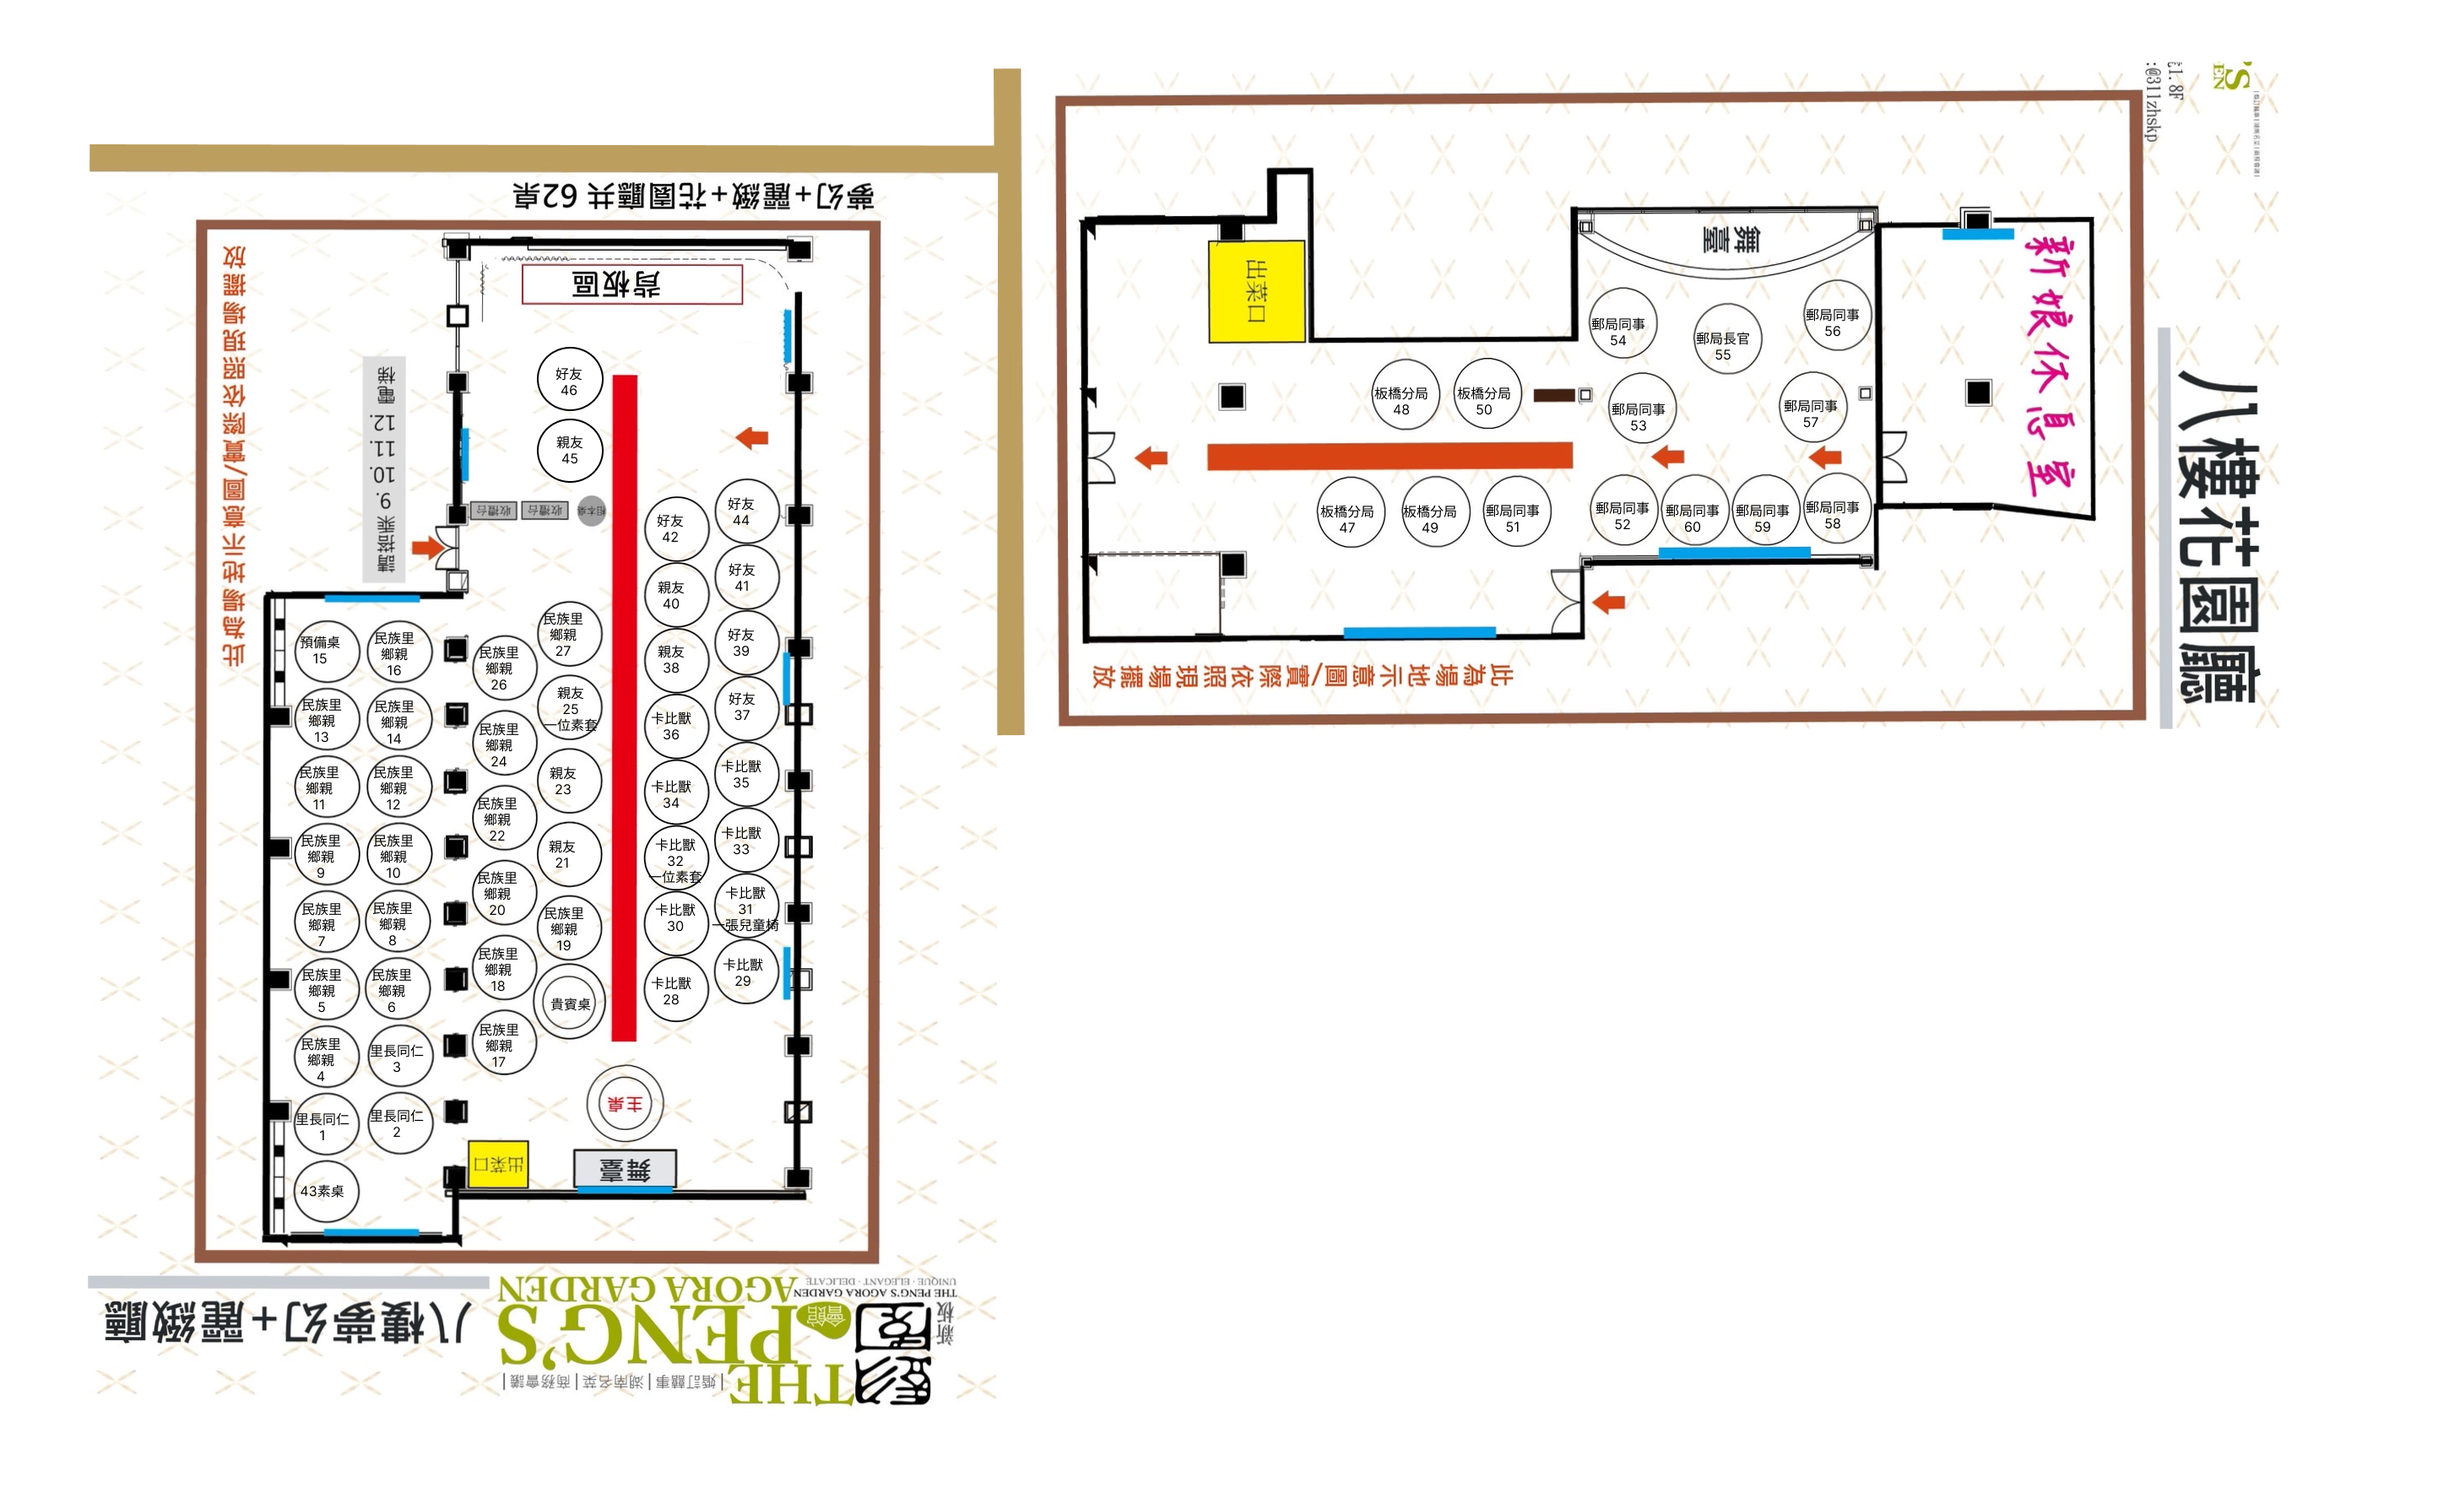
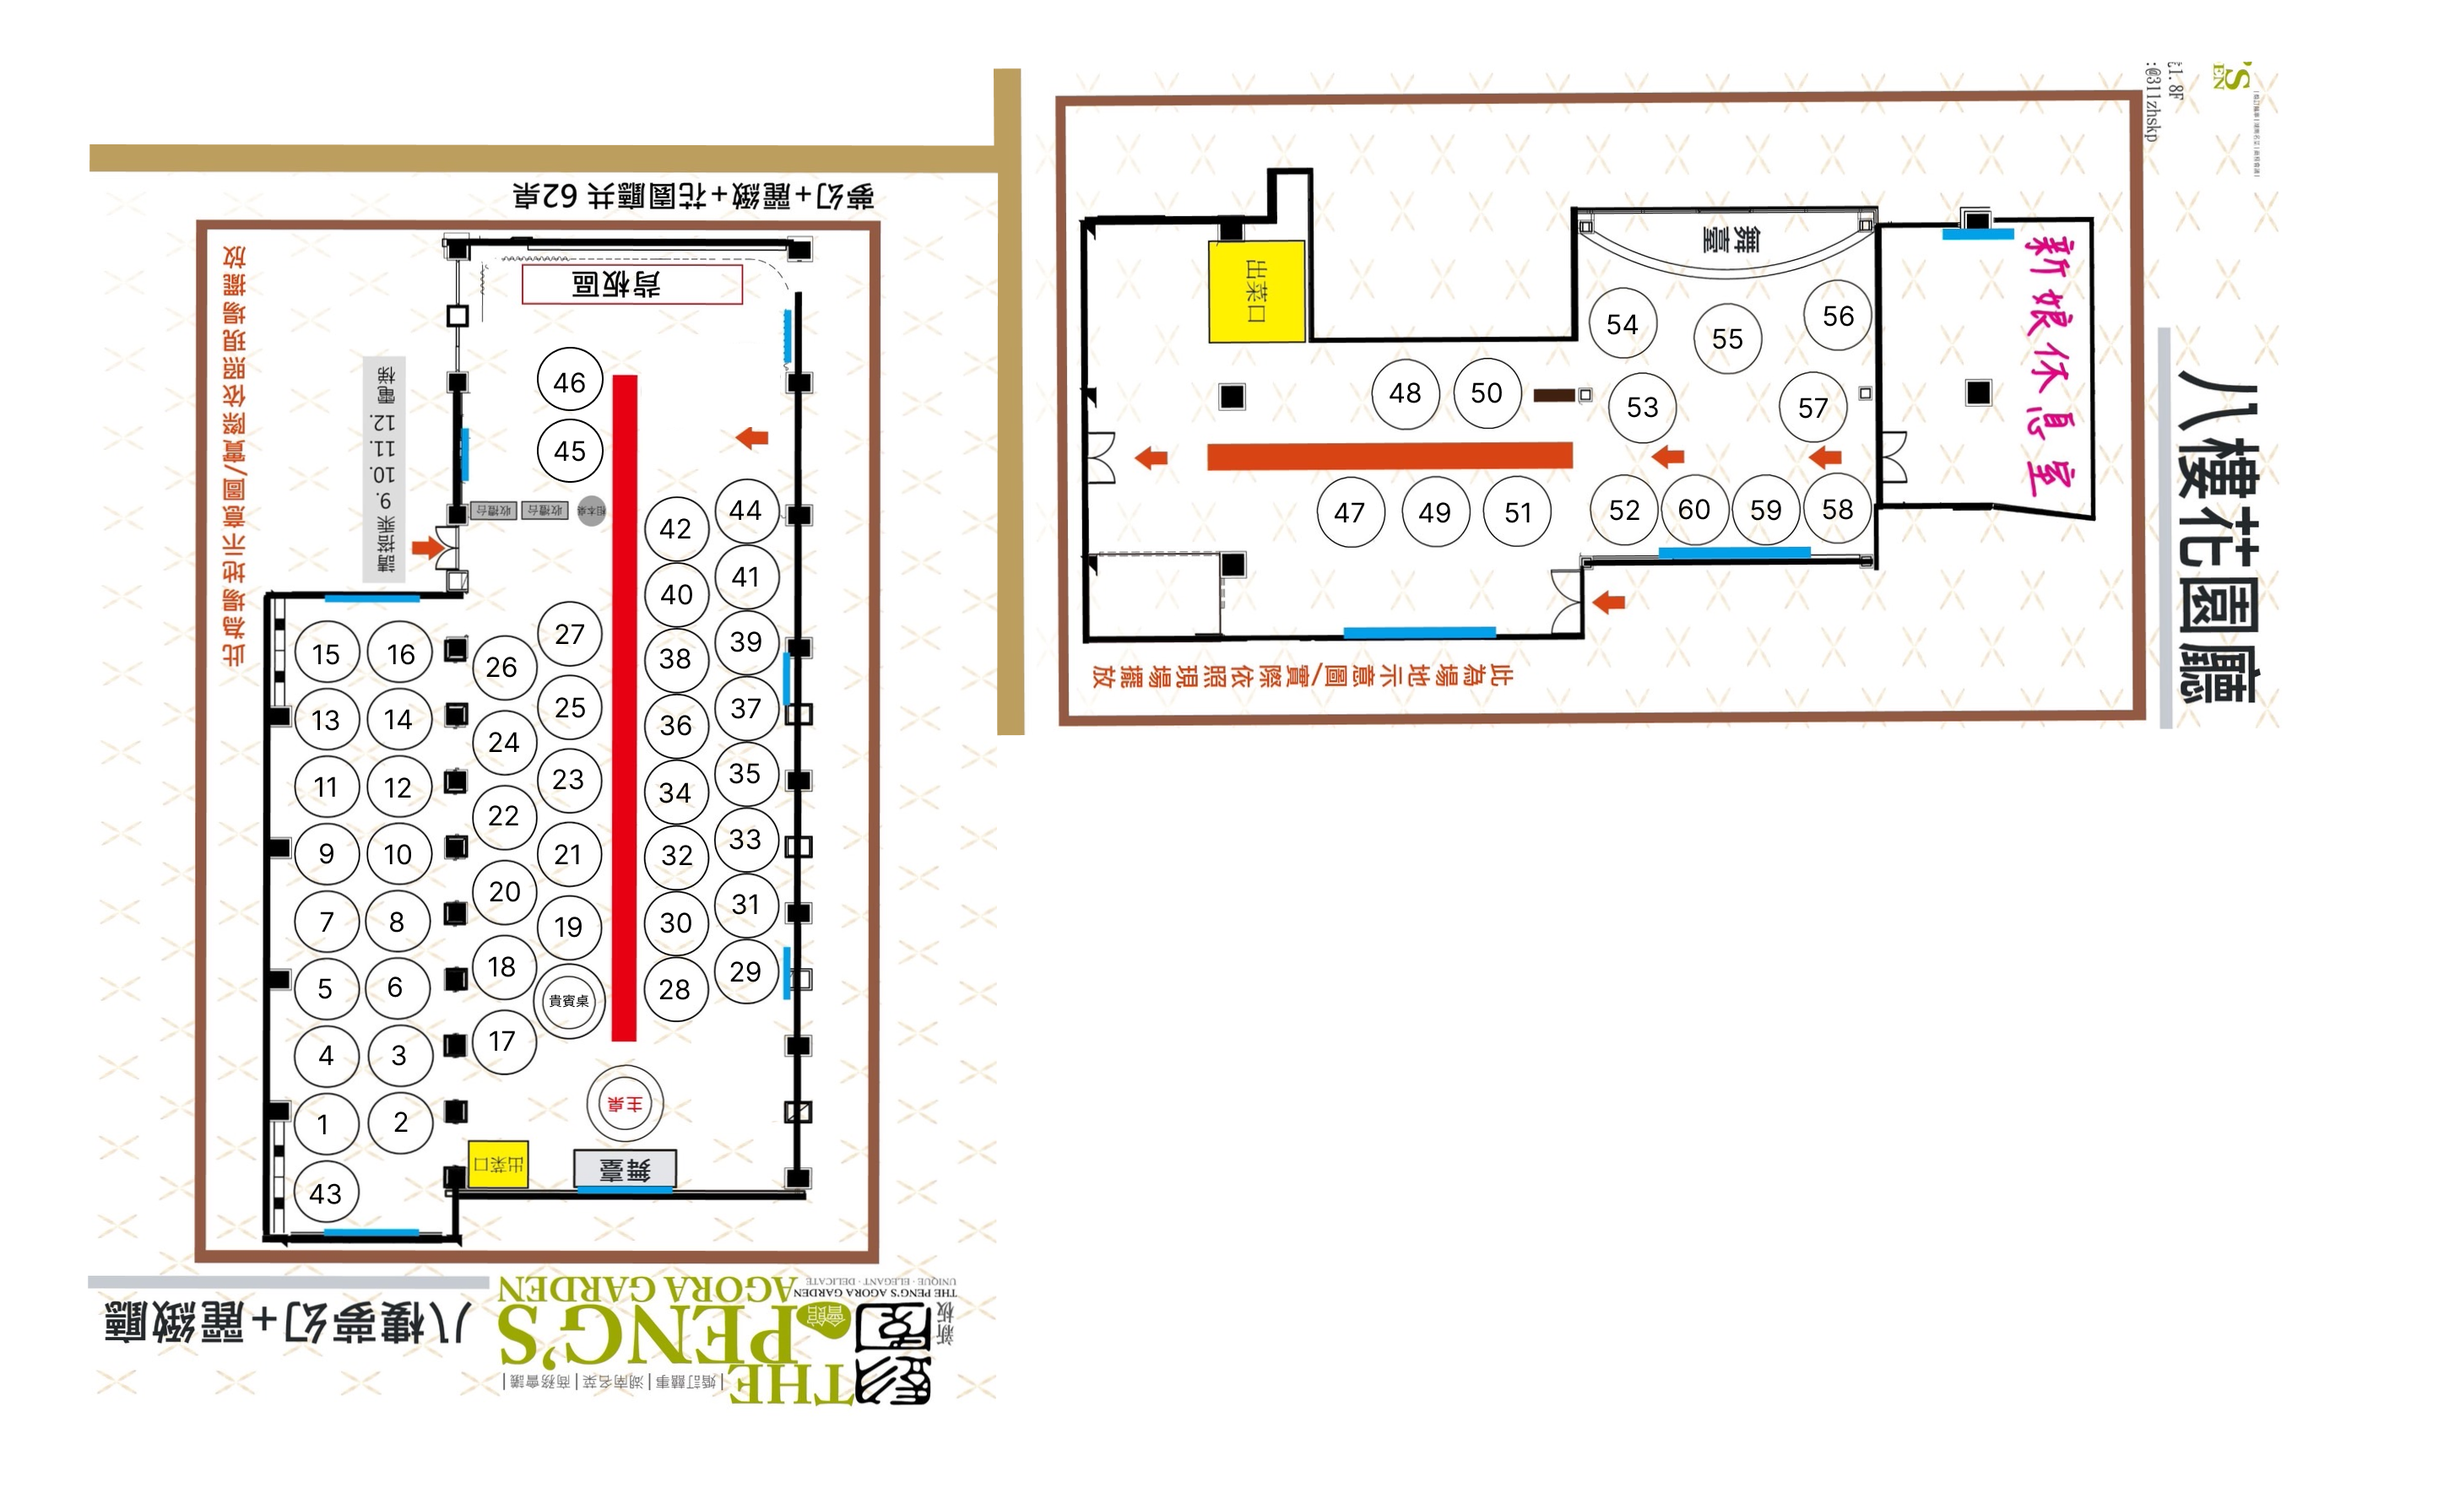
重新部署到 Vercel5

diff --git a/index.html b/index.html
@@ -7,80 +7,156 @@
     <script src="https://code.jquery.com/jquery-3.6.0.min.js"></script>
     <link href="https://cdn.jsdelivr.net/npm/bootstrap@5.0.0/dist/css/bootstrap.min.css" rel="stylesheet" integrity="sha384-wEmeIV1mKuiNpC+IOBjI7aAzPcEZeedi5yW5f2yOq55WWLwNGmvvx4Um1vskeMj0" crossorigin="anonymous">
     <style>
+        header img {
+            max-width: 70px;
+            height: auto;
+            padding-bottom: 15px;
+        }
         .container {
-            display: flex;
-            flex-wrap: wrap;
-            align-items: center;
-            justify-content: center;
-            padding: 0;
-        }
-        #form-section {
-            flex: 1 1 50%;
-            max-width: 70%;
-            margin: 10px;
-        }
-        #table-number {
-            font-size: 1.5rem;
-            color: green;
+          font-family: "Helvetica Neue", Arial, sans-serif;
         }
 
-        /* 小螢幕調整 */
-        @media (max-width: 768px) {
-            #seating-chart, #form-section {
-                flex: 1 1 100%;
-                max-width: 100%;
-            }
-            #search {
-                width: 30%;
-            }
+        .fixed-width {
+            width: 25%;
+            min-width: 120px;
+            max-width: 200px;
+        }
+        .right {
+            margin-right: 10px;
+        }
+
+        header h1 {
+            color: #8b4513;
+            font-weight: bold;
+        }
+
+        header p.lead {
+            color: #6c757d;
+        }
+
+        #form-section {
+            max-width: 600px;
+            margin: 0 auto; 
+            border: 1px solid #eaeaea;
+        }
+
+        #search {
+            background-color: #8b4513;
+            border: none;
+            transition: background-color 0.3s ease;
+        }
+
+        #search:hover {
+            background-color: #6b3b12;
+        }
+
+        #table-number {
+            color: #dc3545; /* 鮮明的紅色 */
+        }
+
+        #seating-chart img {
+            box-shadow: 0px 4px 8px rgba(0, 0, 0, 0.1);
         }
     </style>
 </head>
 <body>
-    <div class="container">
-        <div id="form-section" class="my-5 p-4">
-            <h3>查找桌號</h3>
+
+    <div class="container text-center">
+        <header class="mt-5 d-flex align-items-center justify-content-center">
+            <img src="images/logo.png" alt="logo" class="me-3">
+            <h4 class="text-secondary mb-0">歡迎參加我們的婚禮</h4>
+        </header>
+        
+        <section id="form-section" class="bg-light mt-3 mb-5 py-4 px-5 rounded shadow">
+            <h5 class="mb-4 text-primary">請輸入名字查找您的桌號</h5>
             <form>
                 <div class="my-3 d-flex flex-column flex-sm-row align-items-center">
                     <input type="text" id="name" class="form-control w-75 mb-3 mb-sm-0" placeholder="輸入名字">
-                    <button type="button" id="search" class="btn btn-primary ms-sm-3 w-sm-50">查找</button>
+                    <button type="button" id="search" class="btn btn-primary ms-sm-3 fixed-width">查找</button>
                 </div>
             </form>
-            <p class="fs-5">桌號：<span id="table-number"></span></p>
-        </div>
-        <div id="seating-chart" class="p-2">
-            <img src="images/1.png" alt="Seating Chart" class="img-fluid">
-        </div>
+            <p class="fs-5 right">桌號：<span id="table-number" class="fw-bold text-danger"></span></p>
+        </section>
+    
+        <section id="seating-chart" class="p-3 bg-white rounded shadow">
+            <h5 class="mb-3 text-secondary">婚禮座位圖</h5>
+            <img src="images/1.png" alt="Seating Chart" class="img-fluid rounded border border-2">
+        </section>
     </div>
+  
 
     <script>
         $(document).ready(function() {
             // 名字與桌號對應的資料
-            const seatingMap = {
-                "卡比獸28": [
-                    "黃愷翔",
-                    "娟娟阿姨",
-                    "謝莉菁",
-                    "小惠姊",
-                    "廖妤庭"
-                ],
-                "卡比獸29": [
-                    "王美蘭",
-                    "王美玲"
-                ]
-            };
+            const seatingData = [
+                ["超可愛", "葉庭瑋", "黃愷婷"],
+                ["主桌", "黃紹賢", "魏秀春", "黃翠華", "奶奶", "魏永峰", "葉成和", "林麗淑", "葉福來", "林建良", "陳月琴"],
+                ["4", "劉陳惇美", "王欣寛", "王源安", "李碧惠", "張聰輝", "留得泉", "鮑慶生"],
+                ["5", "陳德昌", "柯良雄", "廖心泉", "陳瑞源", "朱世嵩", "林純如", "黃中淵"],
+                ["6", "林有盛", "羅邱美鳳", "邱茂誠", "林忠鍵", "許漢輝"],
+                ["7", "呂正欽", "許文正", "包春月", "林炎聰", "許永霖"],
+                ["8", "陳林月照", "王瑞榮", "林雪玉", "羅朝富", "吳秀鳳", "童建ㄧ", "劉紅鵑"],
+                ["9", "吳素貞", "吳廷貴", "王旺根", "謝江西", "洪秀雲"],
+                ["10", "黃秋男", "吳陳屘", "辜春忠", "許文財", "謝振銘", "李榮財"],
+                ["11", "羅友明", "簡誌銘", "李府倉", "林永嵩", "劉邦森"],
+                ["12", "胡景良", "鐘金盛", "賴玉梅", "簡柑", "林陳月娥", "黃玉珍", "籃松輝*2", "呂碧霞"],        
+                ["13", "鄭文典", "賴樹奎", "林漢慰", "林義成", "朗知慎", "王裕"],
+                ["14", "楊林春勸", "陳美藝", "楊東誠", "楊西蓮", "蘇淑嫻", "胡德國"],
+                ["16", "劉協豐", "彭浚銘", "李俊隆", "劉清松", "周永順", "侯明量", "王榮盛"],
+                ["17", "謝素珠", "簡燕祿", "簡燕東", "陳福倉", "楊炳煌", "陳森銘"],
+                ["18", "張琇蘭", "林炎盛", "蕭正義", "曾米秀", "李麒麟", "徐圓妹", "林梅蘭"],
+                ["19", "莊佳慧", "林沛淇", "林沛淋", "葉獻文", "宋佳蓁", "劉佳寧", "王彩心", "葉泰辰"],
+                ["20", "陳勝雄", "許百合", "邱蜜子", "林彥伶", "游証傑", "江金川", "張登貴"],
+                ["21", "林春進", "林弈勝", "林瑞徵", "黃聖荃"],
+                ["22", "鐘小黑", "黃春明", "陳進發", "戴寬利", "陳德財"],
+                ["23", "木柵宗保", "葉明添", "劉家霖", "李愛玉", "葉俊廷", "張銅", "張嘉勝"],
+                ["24", "王炳昆", "張文瑞", "林美珠", "何智良", "林建生"],
+                ["25", "黃幸福", "葉明開", "項湖", "許春隆", "黃玲鈺", "莊新發", "黃信明"],
+                ["26", "吳壽嵩", "高昆和", "何廣忠", "劉清淋", "簡燕青", "劉次郎", "洪秀蘭"],
+                ["27", "何文德", "陳鳳珠", "蕭雄賓", "湯國賓", "謝慧靜"],
+                ["28", "黃愷翔", "魏琤琄", "謝莉菁", "小惠姊", "古家偵", "古明惠", "廖妤庭"],
+                ["29", "王美蘭", "王美玲", "蕭家宜", "朱玉玲", "陳佳瑋", "黃紹爵", "黃甯雅", "黃思揚"],
+                ["30", "王璟妤", "胡思婷", "朱育慧", "小朱", "黃嬿潤", "連淑芬", "林冠逸", "程立涵", "陳如婕", "林昱彣"],
+                ["31", "陳薇宇", "許煒駿", "闕源辰", "陳耀峰", "Bob", "許毓珊", "歐承洋", "高詠淓", "高薇婷"],
+                ["32", "蕭竹庭", "朱昱僑", "許項涵", "楊秉叡", "雪倫", "陳軒蓉", "陳新", "郭佩宜", "楊詠涵", "勵亞潔"],
+                ["33", "郭子嘉", "邱治嘉", "連品倠", "彭約瑟", "楊竣宇", "陳楚恩", "張馨勻", "邱子瑋", "邱季涵"],
+                ["34", "楊曜鴻", "李東樺", "黃聖翔", "汪逸承", "鄧凱文", "張翔勝"],
+                ["35", "余俊頡", "林偉凱", "池彥龍", "方子碩", "林奕良", "許紘銘"],
+                ["36", "曾瑞傑", "林少賢", "龎家翔", "江明達", "蕭凱強", "鍾宏賢", "王凱弘", "魏紹丞"],
+                ["37", "謝慶認", "呂光馨", "黃正師", "林斯偉", "洪宗狄", "呂金財"],
+                ["38", "文福諒","王忠正", "施振隆", "吳松淡", "吳文賢", "施慶桔"],
+                ["39", "陳登波", "陳震緯", "蔡文桐", "葉再生", "高德南"],
+                ["40", "徐貞雄", "李阿葉", "張鋒添", "劉益守", "林義家"],
+                ["41", "葉福成", "陳雪嬌", "李財義", "葉紅柑", "葉紅棗", "葉偉婷"],
+                ["42", "蘇峻崤", "許燕鴻", "高訓德", "高素珠", "王正雄"],
+                ["43", "林陳鳳娥", "周日用", "張茂陽", "莊敏豐", "游淑芬", "楊誕敷", "王淑美"],
+                ["44", "王明發", "王秉穎", "呂金城", "林坤培", "許騰翔", "林可真"],
+                ["45", "張重寶", "張盈禎", "莊國男"],
+                ["46", "廖長湖", "劉秀霞", "吳耀旻", "張京洲", "林黃娥", "林可芳"],
+                ["47", "曾太吉", "何彥鋒", "陳健雄", "廖貴隆", "林俊材", "陳萬卿", "李俊德"],
+                ["48", "王家敏", "林明田", "鄭詩川", "吳禹辰", "林明勝", "林南鎮", "張家偉", "張文彬"],
+                ["49", "蔡茂常", "蔡安順", "林俊宏", "張康傳", "辜新福"],
+                ["50", "林炎昇", "鄭德村", "鄭百軒", "鄭文村", "林進祿", "林雲祥", "楊長榮", "張國銘"],
+                ["51", "林振豐", "黃中山", "詹明川", "張英仁", "曾憲龍", "林忠信"],
+                ["52", "廖國慶", "廖眾域", "林世銘", "劉海濤", "洪勝明"],
+                ["53", "張永富", "高勝專", "林士均", "羅朝永", "劉佳漢", "林峻弘", "葉日森"],
+                ["54", "楊子龍", "曾榮勝", "彭琪真", "廖彥哲", "吳國裕", "郭義勇"],
+                ["55", "鄭致能", "周政軍", "林錦妙", "李貽謀", "莊奕輝", "蔡本元", "葉慶厚", "黃秀正", "梁文相"],
+                ["56", "林聰明", "蘇炎山", "洪啟德", "林智賢", "徐淑英"],
+                ["57", "林永寧", "呂政霖", "張忠孝", "王嘉琳", "林文宗", "郭慶龍", "王子輝"],
+                ["58", "吳嘉坤", "吳清傳", "林文龍", "吳明德", "林順福"],
+                ["59", "陳福欽", "程皇錡", "蔡佳均", "羅建棟", "陳威旭"],
+                ["60", "廖昭松", "廖啟勝", "戴清風", "闕建發", "李秋男", "李文龍", "楊振忠"]
+            ];
+            const seatingMap = {};
+            seatingData.forEach(item => {
+                const [table, ...names] = item;
+                names.forEach(name => seatingMap[name] = table);
+            });
+
             $('#search').click(function() {
                 const name = $('#name').val().trim();
-                let tableNumber = "找不到該名字";
-                
-                // 檢查是否有對應的桌號
-                for (const [table, names] of Object.entries(seatingMap)) {
-                    if (names.includes(name)) {
-                        tableNumber = table;
-                        break;
-                    }
-                }
-
+                const tableNumber = seatingMap[name] || "找不到該名字，請檢查名字是否正確！";
                 $('#table-number').text(tableNumber);
             });
         });
